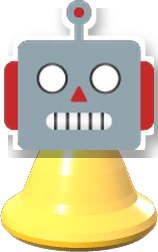
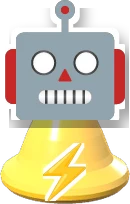
Ludora Dice: better Rocket, Robot, Critter and Ghost pawns
Claude-Session: https://claude.ai/code/session_0196TF67ACf4DrGk3bwDQLY6

diff --git a/ludora-dice/tools/dice-render/special4.py b/ludora-dice/tools/dice-render/special4.py
@@ -1,0 +1,49 @@
+# Better designs for Critter, Robot, Rocket and Ghost
+from PIL import Image, ImageDraw, ImageFont, ImageFilter
+EMO = ImageFont.truetype('/usr/share/fonts/truetype/noto/NotoColorEmoji.ttf', 109)
+COL = {'red': '#e3262c', 'green': '#1fa83c', 'yellow': '#f2bd12', 'blue': '#1f6fe3'}
+def hexc(h): h=h.lstrip('#'); return tuple(int(h[i:i+2],16) for i in (0,2,4))
+def emoji(ch,size,rot=0):
+    im=Image.new('RGBA',(160,160));ImageDraw.Draw(im).text((80,80),ch,font=EMO,embedded_color=True,anchor='mm')
+    im=im.crop(im.getbbox())
+    if rot: im=im.rotate(rot,expand=True,resample=Image.BICUBIC); im=im.crop(im.getbbox())
+    s=size/max(im.size);return im.resize((max(1,int(im.width*s)),max(1,int(im.height*s))),Image.LANCZOS)
+def outline(im,w,col=(255,255,255,255)):
+    a=im.getchannel('A').filter(ImageFilter.MaxFilter(w*2+1));o=Image.new('RGBA',im.size,col);o.putalpha(a);o.alpha_composite(im);return o
+def shadowed(cv,im,x,y,blur=6,op=.35):
+    sh=Image.new('RGBA',im.size);sh.putalpha(im.getchannel('A').point(lambda v:v*op));sh=sh.filter(ImageFilter.GaussianBlur(blur))
+    cv.alpha_composite(sh,(x+4,y+8));cv.alpha_composite(im,(x,y))
+def body(c,scale):
+    b=Image.open(f'out/body_{c}.png').convert('RGBA');b=b.crop(b.getbbox())
+    return b.resize((int(b.width*scale),int(b.height*scale)),Image.LANCZOS)
+def pad(c,w,h):
+    # glossy disc base in team color
+    base=hexc(COL[c]);im=Image.new('RGBA',(w,h));d=ImageDraw.Draw(im)
+    dark=tuple(int(v*.55) for v in base);light=tuple(min(255,int(v+(255-v)*.5)) for v in base)
+    d.ellipse((0,h*.25,w,h),fill=dark+(255,));d.ellipse((0,0,w,h*.75),fill=base+(255,));d.ellipse((w*.15,h*.08,w*.6,h*.35),fill=light+(170,))
+    return im.filter(ImageFilter.GaussianBlur(1))
+for c,hx in COL.items():
+    # Rocket: upright rocket on a launch pad with flames
+    W,H=240,360;cv=Image.new('RGBA',(W,H))
+    fl=emoji('🔥',80,180);cv.alpha_composite(fl,((W-fl.width)//2,H-110))
+    p=pad(c,190,70);cv.alpha_composite(p,((W-190)//2,H-80))
+    r=outline(emoji('🚀',230,45),5);shadowed(cv,r,(W-r.width)//2,H-70-r.height)
+    cv=cv.crop(cv.getbbox());cv.save(f'pawnset/rocket_{c}.webp',quality=88)
+    # Robot: robot head on the team body, lightning badge, antenna glow
+    W,H=260,320;cv=Image.new('RGBA',(W,H));b=body(c,.85);cv.alpha_composite(b,((W-b.width)//2,H-b.height-4))
+    hd=outline(emoji('🤖',120),5);y=H-b.height-hd.height+34;shadowed(cv,hd,(W-hd.width)//2,y)
+    bd=outline(emoji('⚡',58),3);cv.alpha_composite(bd,((W-bd.width)//2,H-b.height//2-4))
+    cv=cv.crop(cv.getbbox());cv.save(f'pawnset/robot_{c}.webp',quality=88)
+    # Critter: hamster with an acorn on the team body
+    W,H=270,320;cv=Image.new('RGBA',(W,H));b=body(c,.85);cv.alpha_composite(b,((W-b.width)//2,H-b.height-4))
+    hd=outline(emoji('🐹',125),5);y=H-b.height-hd.height+36;shadowed(cv,hd,(W-hd.width)//2,y)
+    ac=outline(emoji('🌰',60),3);cv.alpha_composite(ac,(W-ac.width-20,y+hd.height-30))
+    cv=cv.crop(cv.getbbox());cv.save(f'pawnset/critter_{c}.webp',quality=88)
+    # Ghost: floating ghost with a glowing team-color aura and a little shadow
+    W,H=260,330;cv=Image.new('RGBA',(W,H));d=ImageDraw.Draw(cv)
+    d.ellipse((60,H-40,W-60,H-10),fill=(0,0,0,70))
+    au=Image.new('RGBA',(W,H));ImageDraw.Draw(au).ellipse((20,30,W-20,H-50),fill=hexc(hx)+(170,));au=au.filter(ImageFilter.GaussianBlur(24));cv.alpha_composite(au)
+    g=outline(emoji('👻',200),5);cv.alpha_composite(g,((W-g.width)//2,40))
+    for (x,y) in ((30,40),(W-60,90)):cv.alpha_composite(emoji('✨',44),(x,y))
+    cv=cv.crop(cv.getbbox());cv.save(f'pawnset/ghost_{c}.webp',quality=88)
+print('ok')
